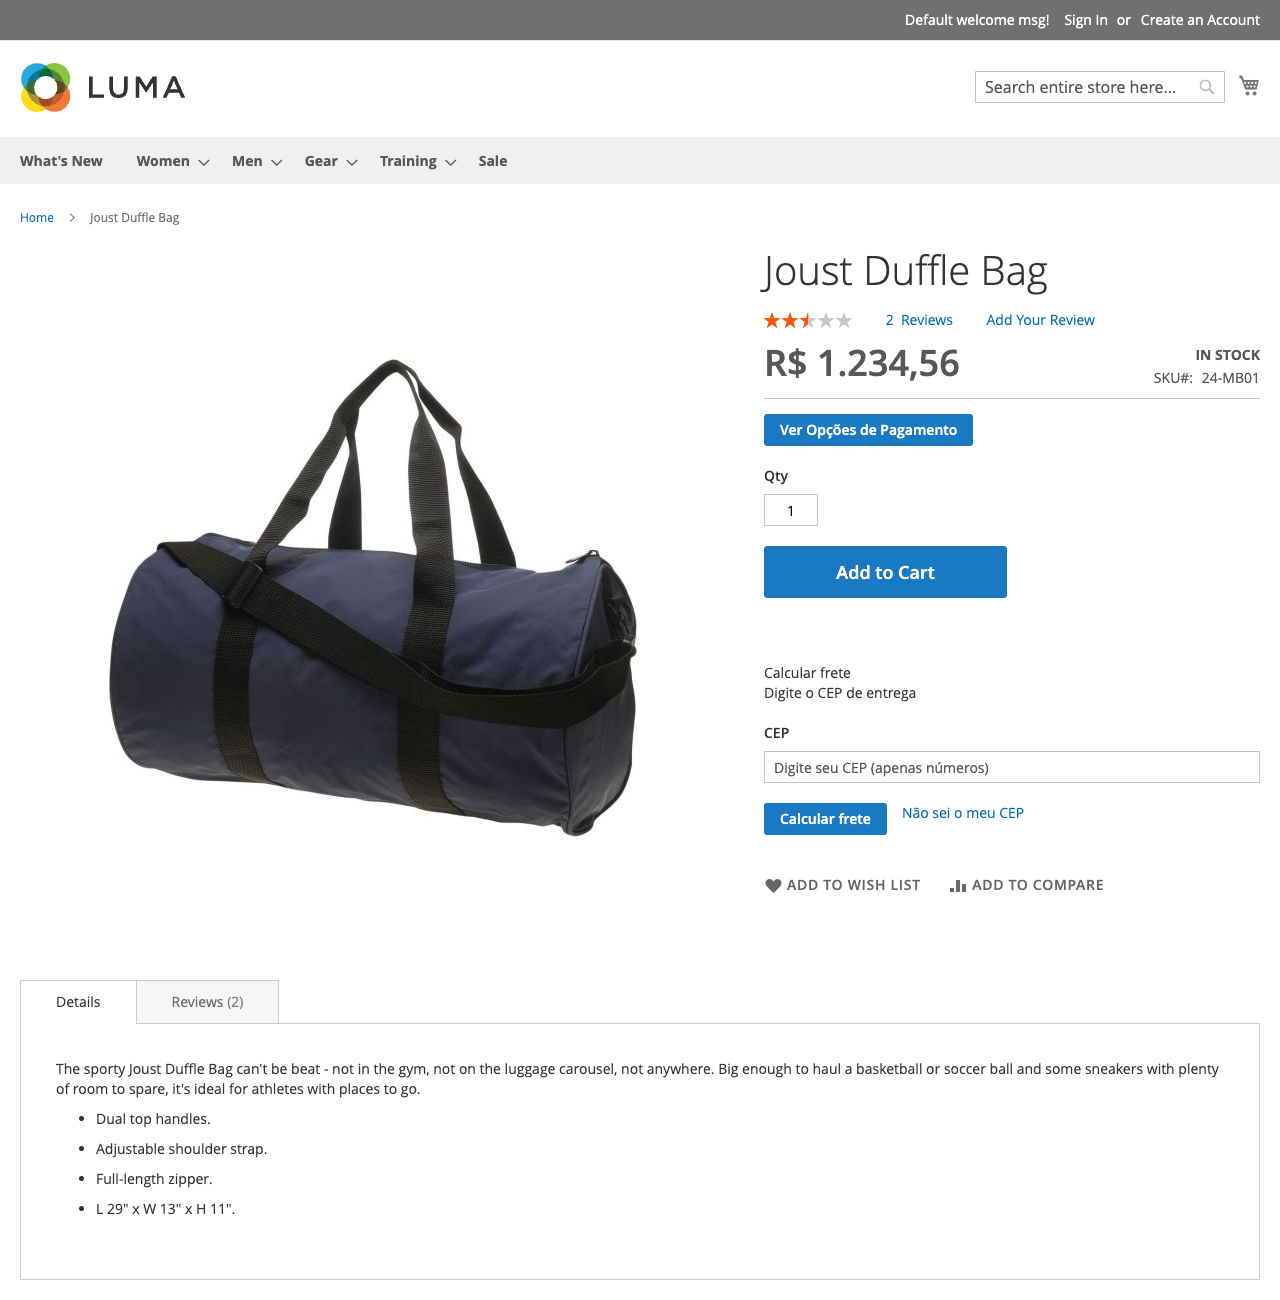
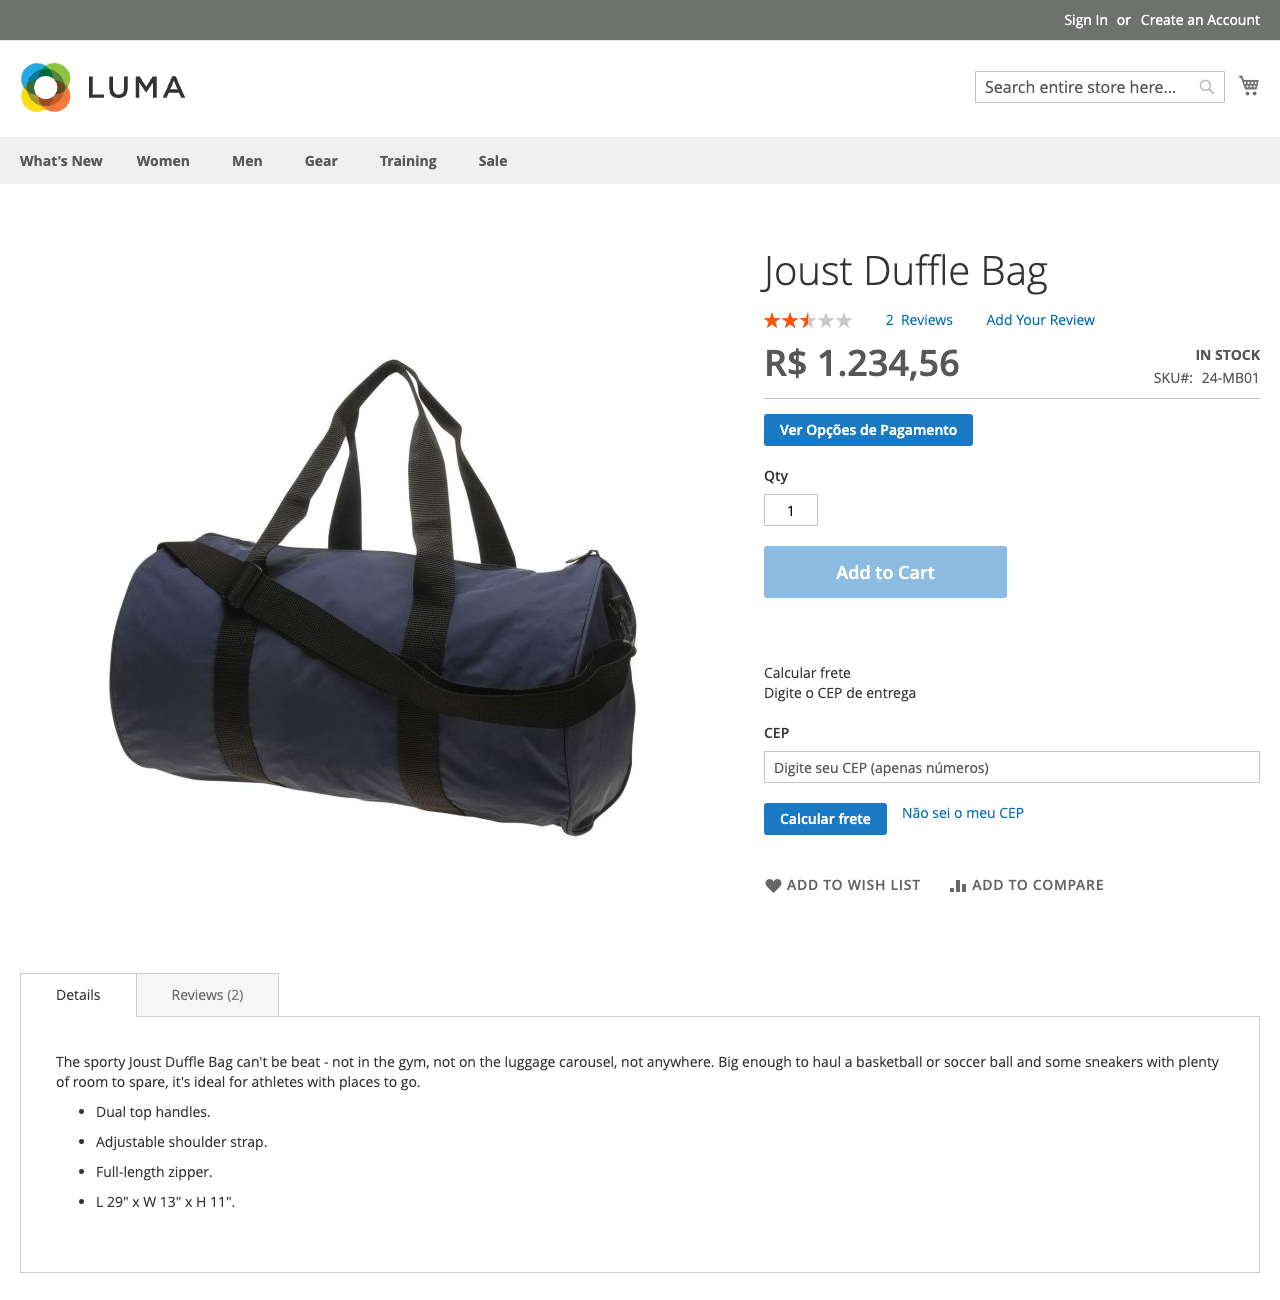
docs: add the 1.1.0 changelog and the development workflow
Refresh the screenshots with the latest end-to-end run and document setup-dev.sh, composer check and the hooks.

diff --git a/CHANGELOG.md b/CHANGELOG.md
@@ -5,6 +5,34 @@ All notable changes to this project are documented in this file.
 The format is based on [Keep a Changelog](https://keepachangelog.com/en/1.1.0/), and this project adheres to
 [Semantic Versioning](https://semver.org/spec/v2.0.0.html).
 
+## [1.1.0] - 2026-10-24
+
+Quality release: no change in what the storefront or the admin show (the end-to-end tests pass with the same hand-calculated
+amounts), but the module is now structured, tested and checked the way a Magento 2 module should be.
+
+### Changed
+
+- The block that fed the template is a **ViewModel** (`ArgumentInterface`) passed as a layout argument; the configuration
+  is read by `Model/Config`, and every read passes its scope.
+- The plan in the modal is built with elements and `.text()` instead of concatenated HTML, and every sentence is one
+  translated phrase with placeholders (`%1 x %2 (with %3% interest per month)`) instead of glued pieces. The CSV files
+  carry exactly those phrases.
+- The markup uses `data-role` / `data-action` hooks scoped to the widget element instead of fixed ids, and no inline style.
+- CSS classes are BEM in kebab-case with the `fineweb-` prefix (`fineweb-payment-options__button`); the LESS has at most 3
+  levels and is mobile first.
+
+### Added
+
+- CI jobs: blacklist, `composer validate --strict`, tests exist, multi-store scope, phpcs with warnings blocking, phpmd (Magento
+  rule set), phpstan level 9, PHPUnit with a 70% per-file coverage gate on PHP 8.2 and 8.3, ESLint 10 and the JavaScript tests.
+- Local git hooks (`.githooks`, `setup-dev.sh`), the review guide (`.github/copilot-instructions.md`), a pull request
+  template and `CLAUDE.md`.
+- Unit tests for the new classes and for the admin field array and its dropdown column (39 tests, 100% coverage of every file).
+
+### Fixed
+
+- The Composer package no longer carries the tests, the CI files and the tooling (`export-ignore`).
+
 ## [1.0.0] - 2026-10-24
 
 First tagged release. It modernizes the module that had been running since 2024 for Magento 2.4.7+ and PHP 8.2/8.3.
@@ -54,4 +82,5 @@ First tagged release. It modernizes the module that had been running since 2024 
 
 - The packaged `.zip` archive (and the `.DS_Store` it bundled) that was committed to the repository.
 
+[1.1.0]: https://github.com/roni-clei-santos/ProductPaymentOptions/releases/tag/v1.1.0
 [1.0.0]: https://github.com/roni-clei-santos/ProductPaymentOptions/releases/tag/v1.0.0

diff --git a/README.md b/README.md
@@ -99,11 +99,14 @@ They were captured by the end-to-end tests, so they show what the module renders
 ## Development
 
 ```bash
-# original Magento packages from a public mirror, no repo.magento.com keys needed
-composer config -g repositories.magento-mirror composer https://mirror.mage-os.org/
-composer install
-composer check        # phpcs + phpstan + PHPUnit
+./setup-dev.sh        # composer install, npm install and the git hooks (core.hooksPath = .githooks)
+composer check        # blacklist, phpcs (warnings block), phpmd, phpstan level 9, tests-exist, multi-store, coverage
+npm run lint          # ESLint 10 on the module JavaScript
 ```
+
+The dependencies come from a public mirror of the original Magento packages, no `repo.magento.com` keys needed
+(`composer config -g repositories.magento-mirror composer https://mirror.mage-os.org/`). The same checks run in CI on PHP 8.2
+and 8.3; PHPUnit must keep every file at 70% line coverage or more. `CLAUDE.md` describes the structure and the rules.
 
 The `e2e/` folder has the Playwright tests that run against a store with the module installed; see `e2e/README.md`.
 
